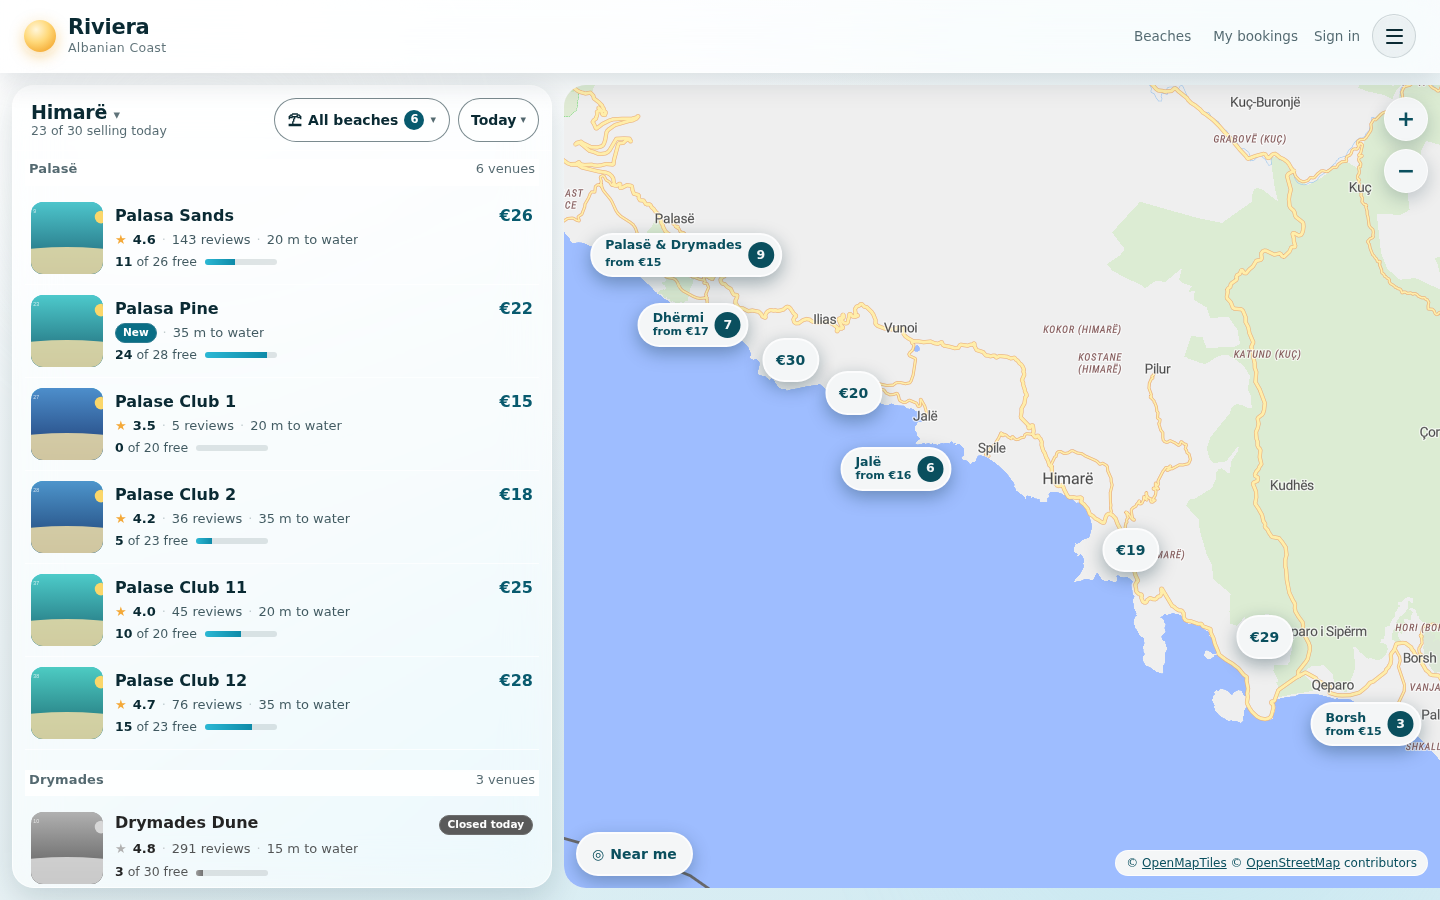
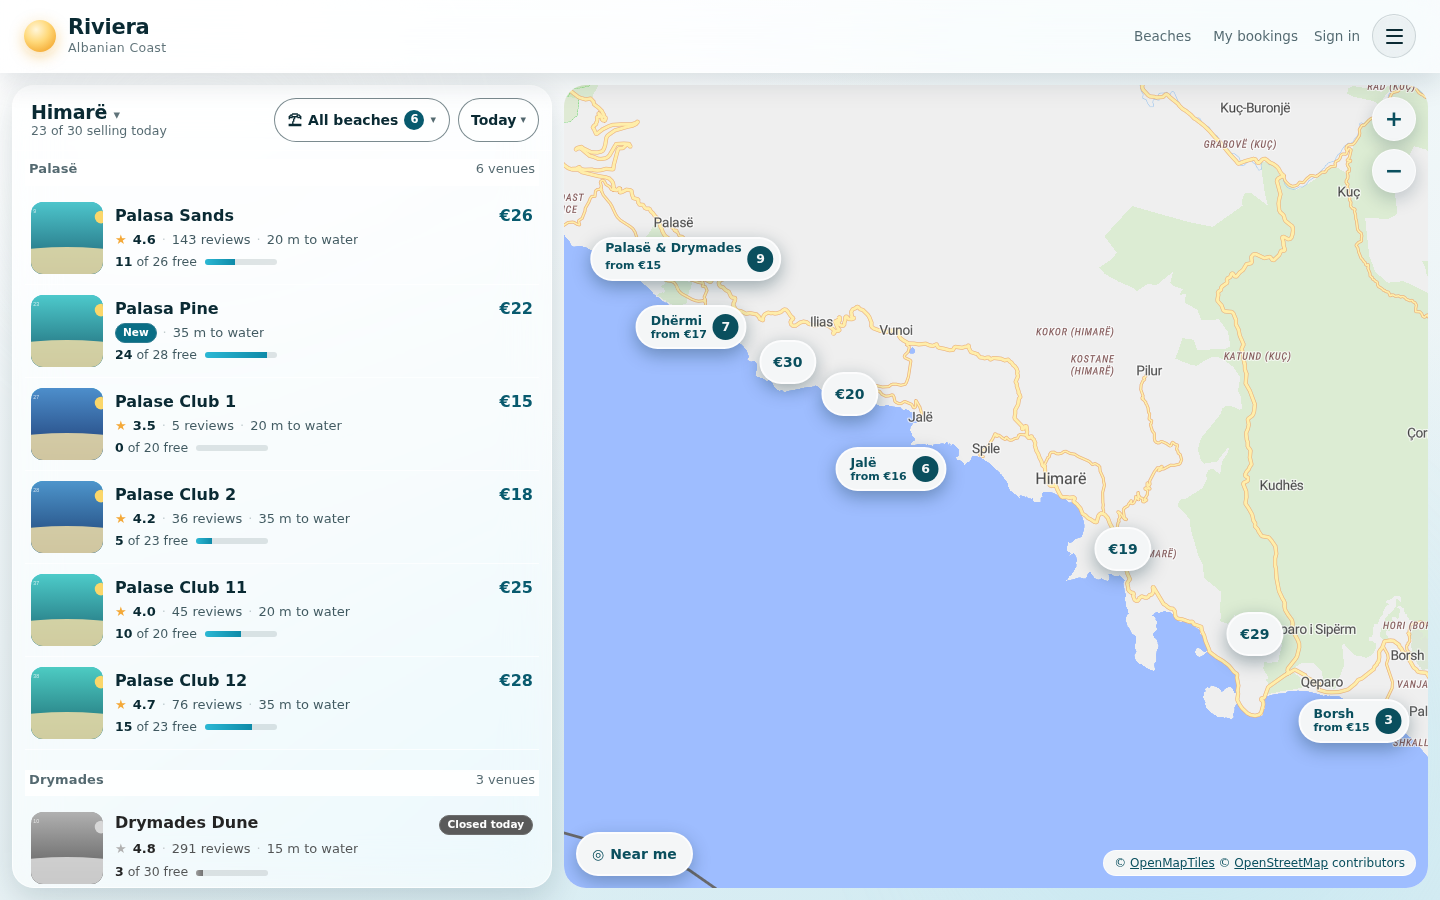
Prototype Q, round 13: the rounded pane is the call; every desktop shot re-taken
The maintainer picked `round` from the three `?edge=` treatments, so it is the default:
the map and the panel are both 12 px off every edge with all four corners at 22 px, two
matching surfaces, and the filed-corner asymmetry of rounds 8-12 is gone. Every desktop
shot is re-taken at it; `Q-shore-1440-edge-*` and `Q-shore-1920-edge-*` keep all three
side by side for the record.

The prototype's own recommendation was `bleed` and the README keeps it as the dissent
with its numbers (+21,024 px² of map at 1440, the panel floating on the ground as it
does on the phone), so a later round can reopen it knowing what it costs.

Claude-Session: https://claude.ai/code/session_01BNAh8sdQaPMuprERzAvZcw

Changed region(s): [[0.375, 0.0933, 1.0, 0.9956], [0.75, 0.2489, 0.7812, 0.3111], [0.4688, 0.9644, 0.5, 0.9956]]

diff --git a/frontend/src/app/pages/prototype-map/variant-shore.ts b/frontend/src/app/pages/prototype-map/variant-shore.ts
@@ -707,13 +707,13 @@ export class VariantShore {
   /** `?pane=free`: the desktop pane's height follows the set as its width does. */
   private readonly freePane = computed(() => this.params().get('pane') === 'free');
   /**
-   * `?edge=`: what the map's own edges do on the desktop (round 12's open question).
-   * `half` is what rounds 8–12 shipped — a 12 px gutter left, top and bottom, flush right, so the
-   * pane is rounded on its left corners only; `round` insets it on all four sides and rounds them
-   * all, making the map a card beside the panel; `bleed` sends it to the right, top and bottom
-   * edges, leaving the one rounded edge that faces the panel.
+   * `?edge=`: what the map's own edges do on the desktop. `round` is the maintainer's call and the
+   * default — a 12 px gutter on all four sides and all four corners at 22 px, so the map and the
+   * panel are two matching surfaces. `half` is what rounds 8–12 had (gutter left, top and bottom,
+   * flush right, so only the left corners are rounded); `bleed` sends the pane to the right, top
+   * and bottom edges. Round 13 shot all three at 1440 and 1920.
    */
-  protected readonly paneEdgeMode = computed(() => this.params().get('edge') ?? 'half');
+  protected readonly paneEdgeMode = computed(() => this.params().get('edge') ?? 'round');
   protected readonly frameEdge = computed(() => {
     const mode = this.paneEdgeMode();
     return mode === 'round' ? 'p-3' : mode === 'bleed' ? 'pl-3' : 'p-3 pr-0';

diff --git a/frontend/src/app/pages/prototype-map/README.md b/frontend/src/app/pages/prototype-map/README.md
@@ -14,8 +14,9 @@ over the panel and the two-column rows, round 10 (§ _Round 10_) is a design cri
 desktop taken to code (a list instead of cards, the panel clamped to the row's width), and
 round 11 (§ _Round 11_) measures the shipped chrome instead of assuming it — the tab bar that is
 not there from `sm`, the header that is 73 px and not 68 — gives the header the page's edges on
-this route, and closes three of the open faults, and round 12 (§ _Round 12_) settles what a
-desktop row says and what the selected one says. The verdict and the first slices are at the end.
+this route, and closes three of the open faults, round 12 (§ _Round 12_) settles what a desktop
+row says and what the selected one says, and round 13 (§ _Round 13_) settles the map's own edges.
+The verdict and the first slices are at the end.
 
 ```
 npm start           # from frontend/
@@ -868,7 +869,7 @@ decorative — it is the row's whole fact set — but a tighter form (`★ 4.6 (
 convention) would need the raw count, and the shipped view model deliberately exposes only the
 agreed-noun label.
 
-## Round 13 — what the map's own edges do (open)
+## Round 13 — what the map's own edges do
 
 Noticed from the shots, not from the code: the desktop pane is rounded on its LEFT corners only.
 That was deliberate — `p-3 pr-0` puts a 12 px gutter left, top and bottom and none on the right,
@@ -888,21 +889,25 @@ the map's own chrome is already inset 12 px from the right (the zoom column 1384
 the credit 1115–1428 × 850–876), and a 22 px corner only bites the outer ~10 px of the curve, so
 neither is clipped. It is a taste call, not a collision.
 
-**The recommendation is `bleed`, and the shots are why.** `round` is tidier than what is there now
-— two matching rounded surfaces instead of one and a half — but it turns the map into a card, and
-the page then has a frame around everything, which is the dashboard look rounds 8–11 kept removing.
-`bleed` is the only one that agrees with the rest of the design: the map reaches the window's edges
-as it does on the phone (where the ground is `fixed inset-0` under the glass header), the panel
-floats ON it with its own shadow rather than sitting beside it in a frame, the single rounded edge
-is the one that faces the panel and therefore means something, and it is the only option that GAINS
-map (+21,024 px² at 1440, +32,544 at 1920) rather than spending it on a frame. At 1920 the case is
-clearer still: the panel's bottom ends at 1068 with the map continuing beneath it to 1080, so the
-panel is visibly on the ground rather than in a grid with it.
+**The call is `round`, and it is the default from this round on.** Both the panel and the map are
+now 12 px off every edge with all four corners at 22 px: two matching surfaces, nothing to
+explain, and the filed-corner asymmetry gone. Every desktop shot in `shots/` is `round` now;
+`Q-shore-1440-edge-*.png` and `Q-shore-1920-edge-*.png` keep all three side by side for the record.
 
-Still `half` by default until the call is made; `Q-shore-1440-edge-*.png` and
-`Q-shore-1920-edge-*.png` are the three, at both widths. Not tried: sending the pane UP under the
-glass header too, as the phone's ground runs under it — the most consistent version of all, and
-the one that would need the zoom column moved off the header's 73 px.
+**The prototype's own recommendation was `bleed`, and it is kept here as the dissent**, because a
+later round may want to reopen it: `bleed` is the only one of the three that agrees with the
+phone, where the ground is `fixed inset-0` under the glass header; the panel floats ON the map
+with its own shadow instead of sitting beside it in a frame; its single rounded edge is the one
+that faces the panel and therefore means something; and it is the only option that GAINS map
+(+21,024 px² at 1440, +32,544 at 1920) rather than spending it on a frame. At 1920 the panel's
+bottom ends at 1068 with the map running under it to 1080, which is the clearest picture of the
+panel being on the ground rather than in a grid with it. The counter-argument the call rests on is
+just as real: the design system is rounded glass surfaces, and a map that matches the panel is one
+system rather than two ideas sharing a screen.
+
+Not tried: sending the pane UP under the glass header, as the phone's ground runs under it — the
+most consistent version of all, and the one that would need the zoom column moved off the
+header's 73 px.
 
 ## Screenshots
 
@@ -939,7 +944,7 @@ contexts) and the geometry the notes argue from; `--json` keeps the raw numbers.
 | `Q-shore-1440-hdr-wide.png` · `-hdr-lower` · `-hdr-noeyebrow`                                                                                          | the header treatments one at a time: the page's edges; the 12.5 px lowercase eyebrow; the eyebrow gone                                                        |
 | `Q-shore-1440-menu.png` · `Q-shore-1440-menu-shell.png`                                                                                                | the theme swatch as a labelled menu row, and the shipped menu beside it                                                                                       |
 | `Q-shore-1440-free.png` · `Q-shore-1440-pin.png` · `Q-shore-1920-pin.png`                                                                              | Himarë's 864 px pane at the set's own height (`?pane=free`); a lone pin press lights and centres its row, and the lit row expands (round 12)                  |
-| `Q-shore-1440-edge-half.png` · `-edge-round` · `-edge-bleed` · `Q-shore-1920-edge-*.png`                                                               | round 13's open question: the map's own edges — the half-bleed of rounds 8–12, a rounded card, a full bleed                                                   |
+| `Q-shore-1440-edge-half.png` · `-edge-round` · `-edge-bleed` · `Q-shore-1920-edge-*.png`                                                               | round 13's three: the half-bleed of rounds 8–12, the rounded card that was chosen, the full bleed that was not                                                |
 | `Q-shore-1440-sarande-pin.png`                                                                                                                         | round 12's clearest case: `Pasqyra Blue` lit, `Request to Book · Snorkelling · Quiet bay` under its facts                                                     |
 | `Q-shore-1440-sarande.png` · `Q-shore-1440-beach.png` · `Q-shore-1440-picker.png`                                                                      | a narrow region on the 40 % floor; Dhërmi chosen; the coast picker, the desktop's chooser                                                                     |
 | `Q-shore-phone-dense.png` · `Q-shore-phone-dense-pin.png` · `Q-shore-phone-dense-full.png` · `Q-shore-1440-dense.png` · `Q-shore-1440-dense-beach.png` | round 8's density question: Himarë padded to 30 (`?dense=30`) at half, after a crowd press, at full; the desktop at 1440 and its Dhërmi beach at the zoom cap |
@@ -998,7 +1003,8 @@ Discover page behind a flag, test-first:
    desktop as rounds 8 to 11 left it — region-first with the picker as the chooser, the panel
    clamped to the row's width (38 %, 420–540) with the map taking the rest, the rows a flat list
    with the beach as a running head, sticky past 15 venues, the gutter for a region's crowds under
-   560 px of pane, and no whole-coast state anywhere. The row carries its review count, and the
+   560 px of pane, no whole-coast state anywhere, and the map inset 12 px with all four corners at
+   22 px, matching the panel beside it (round 13). The row carries its review count, and the
    SELECTED row — the pin's preview — expands to its amenities and its booking mode when that is
    not the default (round 12: 26 px on one row, no visible rows lost).
 
